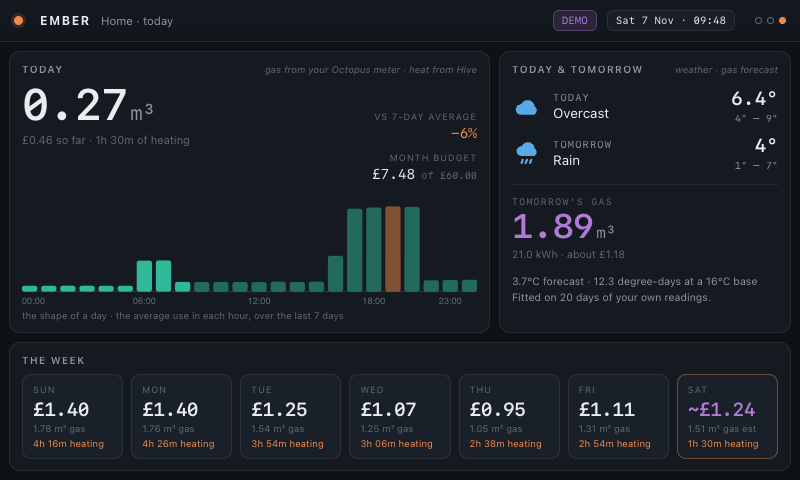
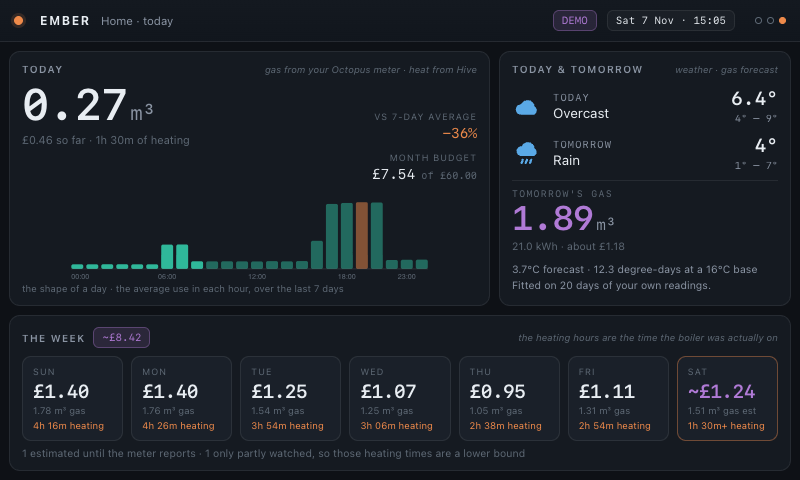
The panels say what the numbers are
Six browser tests had been failing since the first commit, and nobody
had noticed, because the CI does not install Playwright - so every
browser test skips there, and the suite has been green while six of
them were red. They are worth fixing, because each one is the same
fault: a number on the panel that does not say what it is.

**The week's note was computed and thrown away.** The Today slide
worked out how many days were still waiting for the meter and how many
Ember had not watched all of, and then never showed it. It is now a
line under the strip.

**The heating hours did not say what they were.** The week tiles say
"4h 16m heating", and the panel now says that this is the time the
boiler was actually on - in the heading, where there is room for it.

**The Status panel did not say where its hours came from.** The hours
are Ember's own count of the polls it saw the boiler on, not Hive's
figure, so they are only as complete as Ember's watching was. The
panel says so: Ember's polls, only while it was watching.

**The cost did not say what it was made of.** The gas slide shows the
cost, the energy charge and the standing charge, and now says in words
that the first is the other two added together.

**And the setpoint's notch was counted as a line joining the rings
up.** That test asked for no lines at all in the panel, and the notch
is one - but it is a mark on one ring, not a line joining the rings
together, so it is counted apart now.
[…]

diff --git a/ember/web/app.js b/ember/web/app.js
@@ -623,7 +623,7 @@ function slideHeating(payload) {
       </div>
 
       <div class="panel">
-        <div class="p-h"><h4>Status</h4></div>
+        <div class="p-h"><h4>Status</h4><span class="src">Ember's polls &middot; only while it was watching</span></div>
         ${problemFor('hive') ? trouble(problemFor('hive')) : `<div class="big">
           <div>
             <div class="kpi">${heating.home_temp === null || heating.home_temp === undefined ? '—' : num(heating.home_temp)}<span class="u">°C</span></div>
@@ -1138,6 +1138,9 @@ function slideGas(payload) {
           <div class="row"><span class="nm">Standing charge</span><span class="t">${gas.standing_p === null || gas.standing_p === undefined ? '\u2014' : money(gas.standing_p / 100)}</span></div>
           <div class="row"><span class="nm">Unit rate</span><span class="t">${gas.unit_rate_p === null || gas.unit_rate_p === undefined ? '\u2014' : num(gas.unit_rate_p, 2) + 'p/kWh'}</span></div>
         </div>
+        ${gas.energy_p !== null && gas.energy_p !== undefined
+    && gas.standing_p !== null && gas.standing_p !== undefined
+    ? `<div class="dimmer" style="font-size:10.5px;margin-top:6px">The cost today is the energy charge plus the standing charge.</div>` : ''}
         ${gas.unit_reason ? `<div class="foot">Unit: ${esc(gas.unit_label || gas.unit)} &mdash; ${esc(gas.unit_reason)}.</div>` : ''}
       </div>
 
@@ -1265,6 +1268,16 @@ function slideToday(payload) {
     ? `<span class="pill cost${weekApprox ? ' approx' : ''}">${weekApprox ? '~' : ''}${money(weekTotal)}</span>`
     : '';
 
+  /* What the strip is showing, and what is not settled.
+   *
+   * The heating hours are Ember's own count of the polls it saw the
+   * boiler on, so they are the time the boiler was actually on. That
+   * goes in the heading, where there is room for it, and the note
+   * under the strip says what is not settled - the days still waiting
+   * for the meter, and the days Ember did not watch all of.
+   */
+  const weekCaption = 'the heating hours are the time the boiler was actually on';
+
   const weather = payload.weather || {};
   const wxToday = weather.today || {};
   const wxTomorrow = weather.tomorrow || {};
@@ -1311,11 +1324,11 @@ function slideToday(payload) {
   const forecastBody = forecast.available ? `
     <div class="kpi" style="font-size:34px;color:var(--plum)">${num(forecast.tomorrow_m3, 2)}${unit ? `<span class="u">${unit}</span>` : ''}</div>
     <div class="dimmer" style="font-size:10.5px;margin-top:5px">${forecastLine(gas, forecast)}</div>
-    <div class="fnote" style="margin-top:14px">
+    <div class="fnote" style="margin-top:10px">
       ${num(forecast.outside_mean, 1)}°C forecast &middot; ${num(forecast.degree_days, 1)} degree-days at a ${num(forecast.base_temperature, 0)}°C base<br>
       Fitted on ${forecast.model ? forecast.model.days_used : 0} days of your own readings.
     </div>` : `
-    <div class="fnote" style="margin-top:14px">
+    <div class="fnote" style="margin-top:10px">
       Not enough history yet to forecast.<br>
       ${esc(forecast.reason || '')}
     </div>`;
@@ -1360,8 +1373,9 @@ function slideToday(payload) {
       </div>
 
       <div class="panel" style="grid-column:1/-1">
-        <div class="p-h"><h4>The week</h4>${weekPill}</div>
+        <div class="p-h"><h4>The week</h4>${weekPill}<span class="src">${weekCaption}</span></div>
         <div class="tiles weekstrip" style="grid-template-columns:repeat(7,1fr)">${week}</div>
+        ${weekNote ? `<div class="dimmer" style="font-size:10.5px;margin-top:6px">${weekNote}</div>` : ''}
       </div>
     </div>
   </div>`;

diff --git a/ember/web/app.css b/ember/web/app.css
@@ -318,7 +318,7 @@ html, body {
   font-family: var(--mono); font-size: 19px; font-weight: 600; color: var(--ink);
 }
 .wx-range { font-family: var(--mono); font-size: 10px; color: var(--dim); margin-top: 2px; }
-.wx-sep { height: 1px; background: var(--line); margin: 13px 0 11px; }
+.wx-sep { height: 1px; background: var(--line); margin: 9px 0 7px; }
 .wx-gas-label {
   font-family: var(--mono); font-size: 9.5px; letter-spacing: .14em;
   text-transform: uppercase; color: var(--dimmer); margin-bottom: 2px;

diff --git a/tests/test_panel_details.py b/tests/test_panel_details.py
@@ -485,10 +485,15 @@ class TheRingLayoutTests(_PanelFixture, unittest.TestCase):
     def test_nothing_joins_the_rings_up(self):
         """The dotted lines said "these are connected", which the
         layout already says, and they ran through the numbers.
+
+        The setpoint's notch is a line too, but it is a mark on one
+        ring and not a line joining the rings together, so it is
+        counted apart.
         """
         page = self._page()
         lines = page.evaluate(
-            "() => document.querySelectorAll('.slide svg line').length")
+            "() => document.querySelectorAll('.slide svg line"
+            ":not([data-tick=\"target\"])').length")
         page.close()
         self.assertEqual(lines, 0, "there are still lines between the rings")
 

diff --git a/README.md b/README.md
@@ -229,7 +229,8 @@ chart says which is which.
 
 **Today's figures** are the day's volume and what it cost, broken down into
 the energy charge and the standing charge — the two add up to the cost above
-them — with the unit rate and the unit itself. The panel says which unit the
+them — with the unit rate and the unit itself. The panel says in words that the
+cost is **the energy charge plus the standing charge**, and says which unit the
 readings are in and **why**, so the numbers can be argued with.
 
 **Today at a glance** is six tiles: gas today, cost, the 7-day average, how
@@ -260,6 +261,10 @@ the heating hours beside it. Next to the heading is the **week's total** in a
 pill — the sum of the days that have a cost, and nothing else. When any of it
 is an estimate the pill carries a tilde and the plum of an estimate, so it never
 claims to be more than it knows.
+
+The heating hours are **the time the boiler was actually on**, and a line under
+the strip says what is not settled: the days still waiting for the meter, and
+the days Ember did not watch all of.
 
 ### The header
 
@@ -431,10 +436,11 @@ Three things make the count honest:
 
 So Ember publishes, for every day, **how much of it it was watching**, and
 says so where it matters: *"Heating today"* and *"Heating this week"* read
-*"at least 2h 00m"* when the count is a lower bound; the week's tiles mark a
-partly-watched day with a **+**; and a day Ember was not running says **not
-recorded**, not `0h 00m`, because a zero is a claim — and the claim would be
-"the heating never came on", which is not what happened.
+*"at least 2h 00m"* when the count is a lower bound; the Status panel says the
+hours come from **Ember's own polls, only while it was watching**; the week's
+tiles mark a partly-watched day with a **+**; and a day Ember was not running
+says **not recorded**, not `0h 00m`, because a zero is a claim — and the claim
+would be "the heating never came on", which is not what happened.
 
 The count is still a sample — the boiler's state is only known at the moments
 Ember polled it, so a run shorter than the poll interval can be missed. At two
